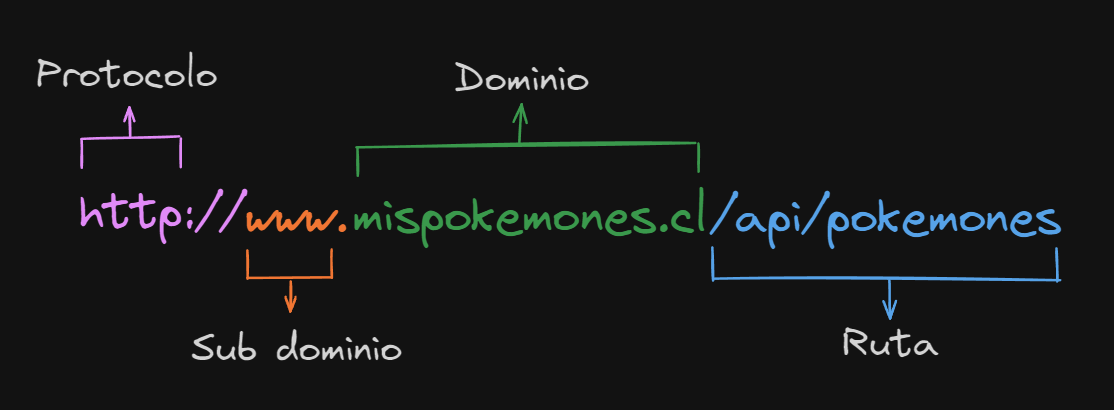
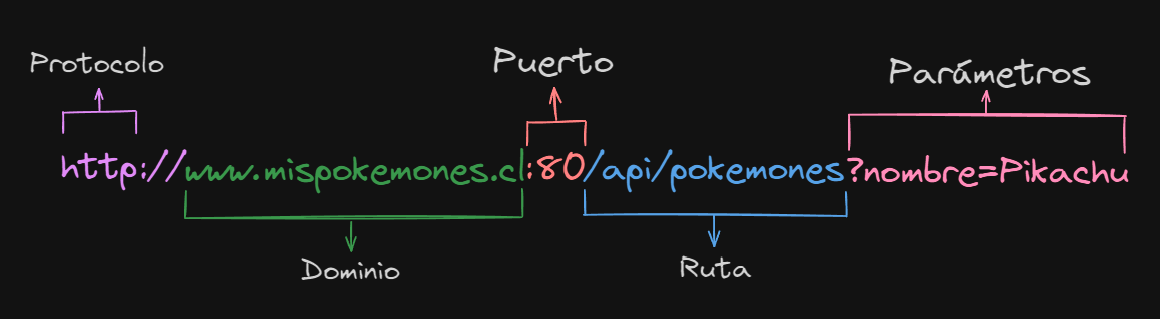
modificacion clase 3 a URL y Cabecera HTTP

diff --git a/2024-1/Ayudantia-clase-3/Explicacion-URL/Anatomia/Anatomia-URL.md b/2024-1/Ayudantia-clase-3/Explicacion-URL/Anatomia/Anatomia-URL.md
@@ -1,0 +1,12 @@
+
+## Anatomía de una URL
+
+- Una **URL** está compuesta de diferentes partes, algunas obligatorias y otras opcionales. Veamos las partes más importantes usando la siguiente URL:
+
+![URL.png](../../images/URL.png)
+
+- **Protocolo:** ```http``` indica qué protocolo debe usar el navegador. Un protocolo es un método establecido para intercambiar o transferir datos alrededor de una red informática.
+- **Dominio:** ```www.mispokemones.cl``` es el nombre de **dominio**. Indica qué servidor web se solicita. Alternativamente, es posible usar directamente una **dirección IP**, pero debido a que es menos conveniente, no se usa con frecuencia en la Web.
+- **Puerto:** ```:80``` es el puerto. Indica la "puerta" técnica utilizada para **acceder a los recursos en el servidor web**. Por lo general, se omite si el servidor web utiliza los puertos estándar del protocolo HTTP (80 para HTTP y 443 para HTTPS) para otorgar accesos a sus recursos. De lo contrario es obligatorio.
+- **Ruta:** ```/api/pokemones``` es la ruta al recurso en el servidor web. En los primeros días de la Web, una ruta como está, representaba la ubicación de un archivo físico en el servidor web. Hoy en día, es principalmente una abstracción manejada por servidores web sin ninguna realidad física.
+- **Parámetros:** ```?nombre=Pikachu``` son parámetros adicionales proporcionados al servidor web. Esos parámetros son una lista de pares **clave/valor**. El servidor web puede usar esos parámetros para hacer cosas adicionales antes de devolver el recurso. Cada servidor web tiene sus propias reglas con respecto a los parámetros, y la única forma confiable de saber si un servidor web específico está manejando parámetros es preguntando al propietario del servidor web.

diff --git a/2024-1/Ayudantia-clase-3/README.md b/2024-1/Ayudantia-clase-3/README.md
@@ -14,10 +14,10 @@ En este repositorio encontrarás el contenido de la ayudantía n°3, en donde se
 
 - [Cliente/Servidor](./FundamentosWeb/Cliente-Servidor/Cliente-Servidor.md)
 - [Métodos HTTP](./FundamentosWeb/MetodosHTTP/HTTP.md)
-- [Estados (status)](./FundamentosWeb/Estados/Status.md)
+- [Estado de respuesta HTTP](./FundamentosWeb/Estados/Status.md)
+- [Cabecera HTTP](./FundamentosWeb/Cabeceras/Headers.md)
 - [Cuerpo (Body)](./FundamentosWeb/Cuerpo/Body.md)
 - [Parámetros (Queries)](./FundamentosWeb/Parametros/Queries.md)
-- [Cabeceras (Headers)](./FundamentosWeb/Cabeceras/Headers.md)
 
 </details>
 
@@ -29,9 +29,10 @@ En este repositorio encontrarás el contenido de la ayudantía n°3, en donde se
 </details>
 
 <details open>
-<summary>Explicación Url</summary>
+<summary>Las URLs</summary>
 
-- [URL](./Explicacion-URL/URL.md)
+- [¿Qué es una URL?](./Explicacion-URL/URL/URL.md)
+- [Anatomía de una URL](./Explicacion-URL/Anatomia/Anatomia-URL.md)
 
 </details>
 

diff --git a/2024-1/Ayudantia-clase-3/FundamentosWeb/Cabeceras/Headers.md b/2024-1/Ayudantia-clase-3/FundamentosWeb/Cabeceras/Headers.md
@@ -1,5 +1,7 @@
 
-## Cabeceras (Headers)
+## Cabecera HTTP
+
+Una cabecera HTTP es un campo de una solicitud o respuesta HTTP que transmite contexto y metadatos adicionales sobre la solicitud o respuesta. Por ejemplo, un mensaje de solicitud puede utilizar cabeceras para indicar sus formatos de medios preferidos, mientras que una respuesta puede utilizar cabeceras para indicar el formato de medios del cuerpo devuelto. Las cabeceras no distinguen entre mayúsculas y minúsculas, comienzan al principio de una línea y van seguidas inmediatamente por un ":" y un valor dependiente de la cabecera. El valor termina en el siguiente CRLF o al final del mensaje.
 
 #### ¿De que forma lo queremos hacer?
 

diff --git a/2024-1/Ayudantia-clase-3/Explicacion-URL/URL/URL.md b/2024-1/Ayudantia-clase-3/Explicacion-URL/URL/URL.md
@@ -1,0 +1,8 @@
+
+## ¿Qué es una URL?
+
+- **URL** significa *Uniform Resource Locator (Localizador de Recursos Uniforme)*.
+- Una URL no es más que una dirección que es dada a un recurso único en la Web.
+- En teoría, cada URL válida apunta a un único recurso. Dichos recursos pueden ser páginas HTML, documentos CSS, imágenes, etc. En la practica, hay algunas excepciones, siendo la más común una URL apuntando a un recurso que ya no existe o que ha sido movido.
+- Como el recurso representado por la URL y la URL en si son manejadas por el servidor Web, depende del dueño del servidor web manejar ese recurso y su URL asociada adecuadamente.
+
